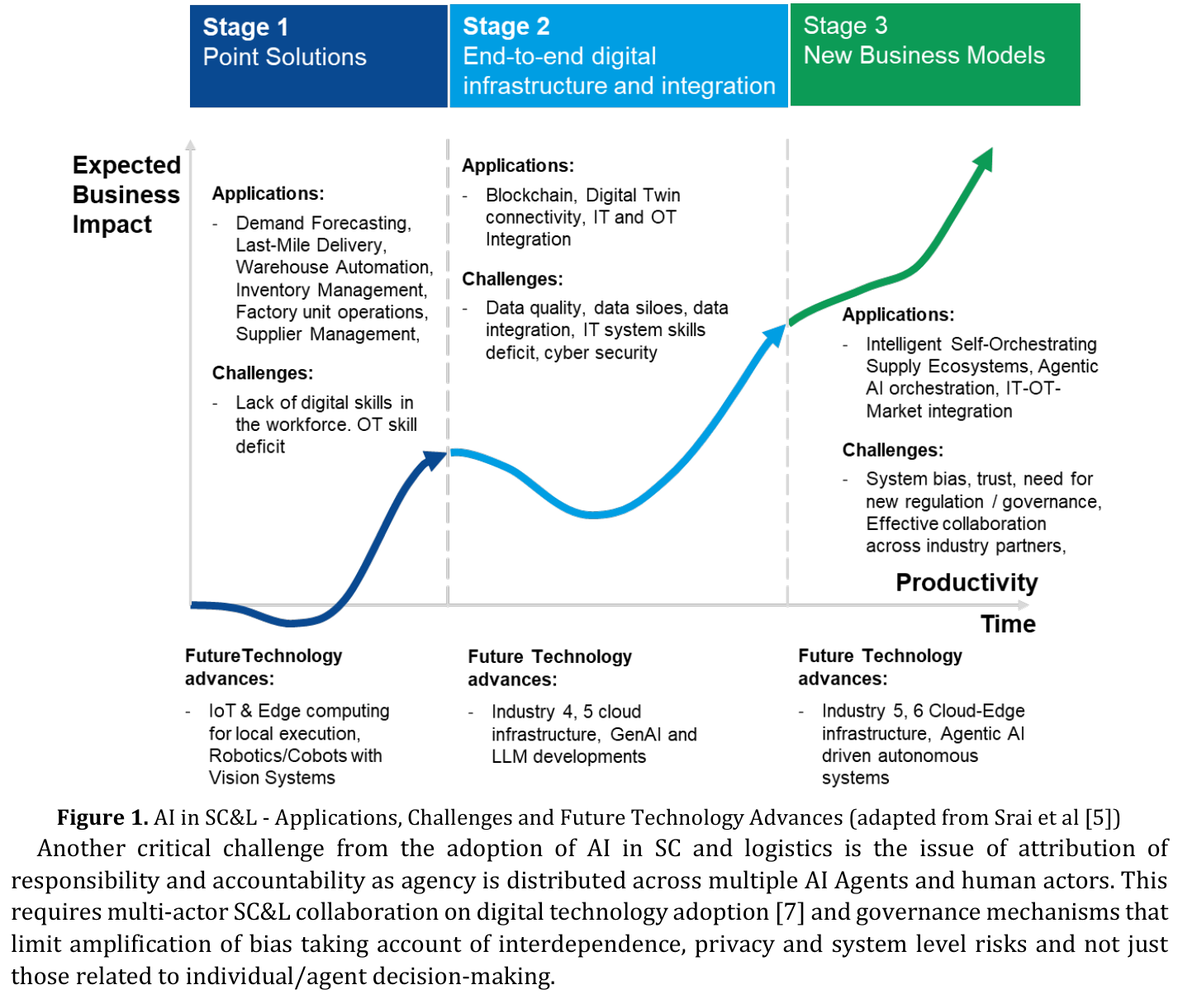
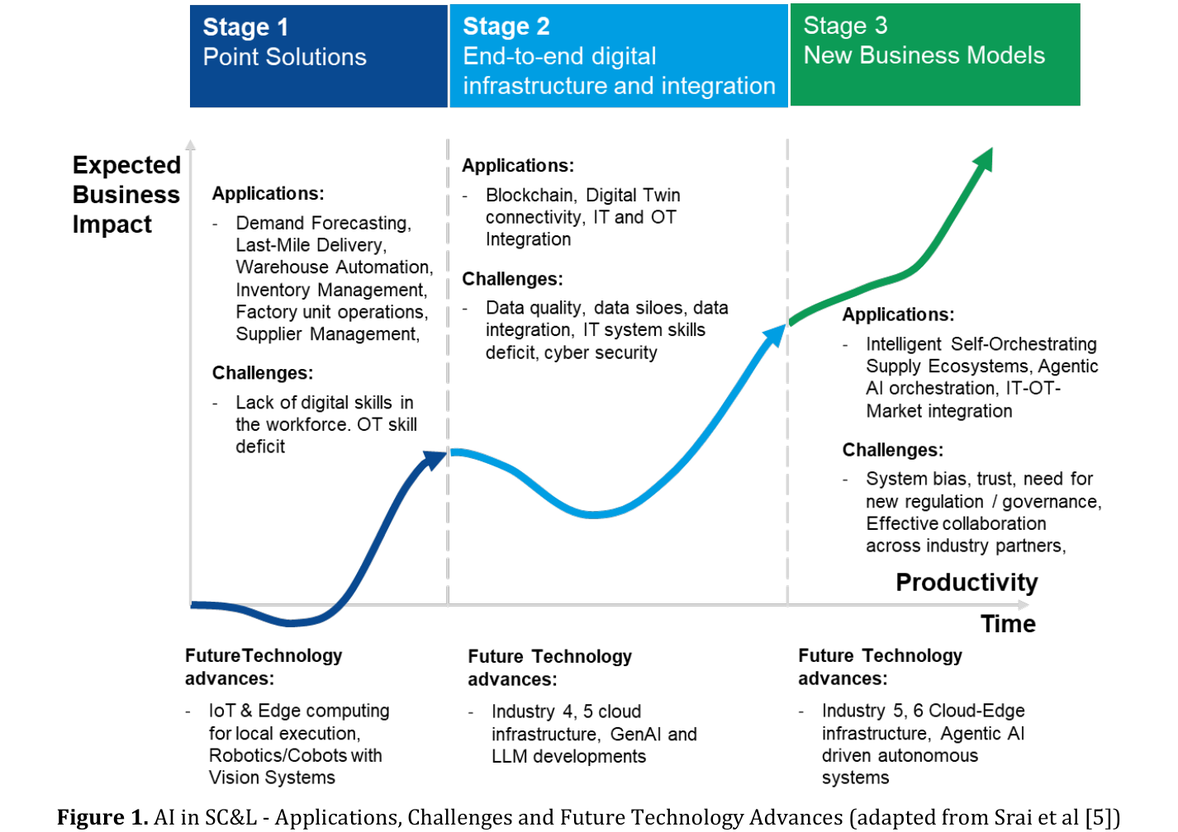
V3.34

diff --git a/site/papers/2026-roadmap-on-artificial-intelligence-and-machine-learning-for-smart-manufacturing/page-renders/full-translation.html b/site/papers/2026-roadmap-on-artificial-intelligence-and-machine-learning-for-smart-manufacturing/page-renders/full-translation.html
@@ -396,7 +396,7 @@ E-mail：LKong@fudan.edu.cn</p>
 <h2>致谢</h2>
 <p>作者谨对国家自然科学基金（52375414）与上海市科委创新专项（23ZR1404200）的支持表示衷心感谢。</p>
 <details class="references-panel" open=""><summary class="references-summary">参考文献</summary><div class="references"><p>[1] AlMahasneh R, Hollósi G, Ficzere D, Bancsics M, Lukovszki C, Varga P. Uncovering Common AI Challenges Across Industrial&nbsp;Domains in the Transition to Industry 5.0[C]//2024 20th International Conference on Network and Service Management&nbsp;(CNSM). IEEE, 2024: 1-7.&nbsp;</p><p>[2] Liang P P, Zadeh A, Morency L P. Foundations &amp; trends in multimodal machine learning: Principles, challenges, and open&nbsp;</p><p>questions[J]. ACM Computing Surveys, 2024, 56(10): 1-42.&nbsp;</p><p>[3] Guclu E, Akin E. Enhanced defect detection on steel surfaces using integrated residual refinement module with synthetic data&nbsp;augmentation[J]. Measurement, 2025, 250: 117136.&nbsp;</p><p>[4] Li Y, Zheng L, Wang Y, Dong E, Zhang S. Impedance Learning-based Adaptive Force Tracking for Robot on Unknown Terrains[J].&nbsp;IEEE Transactions on Robotics, 2025.&nbsp;</p><p>[5] Radford A, Kim J W, Hallacy C, Ramesh A, Goh G, Agarwal S,sastry G, Askell A, Mishkin P, Clark J,Krueger G, Sutskever I. Learning&nbsp;transferable visual models from natural language supervision[C]//International conference on machine learning. PmLR, 2021:&nbsp;8748-8763.&nbsp;</p><p>[6] Chang Y H, Wu F C, Lin H W. Design and implementation of esp32-based edge computing for object detection[J]. Sensors, 2025,&nbsp;25(6): 1656.&nbsp;</p><p>[7] Deng F, Huang Y, Lu S, Chen Y, Feng H, Zhang J, Yang Y, Hu J, Lam TL, Xia F. A multi-sensor data fusion system for laser welding&nbsp;process monitoring[J]. IEEE Access, 2020, 8: 147349-147357.&nbsp;</p><p>[8] Harmatos J, Maliosz M. Architecture integration of 5G networks and time-sensitive networking with edge computing for smart&nbsp;manufacturing[J]. Electronics, 2021, 10(24): 3085.&nbsp;</p><p>[9] Sochaniwsky A. A LIGHTWEIGHT CAMERA-LIDAR FUSION FRAMEWORK FOR TRAFFIC MONITORING APPLICATIONS[D]. ,&nbsp;</p><p>2024.&nbsp;</p><p>[10] Durana P, Krastev V, Buckner K. Digital twin modeling, multi-sensor fusion technology, and data mining algorithms in cloud&nbsp;and edge computing-based Smart city environments[J]. Geopolitics, History, and International Relations, 2022, 14(1): 91-106.&nbsp;</p><p>[11] Wang M, Zhang X, Chen S, Li X, Zhang Y. A bidirectional separated distillation-based cross-modal interactive fusion network&nbsp;for skeleton-based action recognition[J]. IEEE Sensors Journal, 2024.&nbsp;</p><p>[12] Guo J, Liu Q, Chen E. A deep reinforcement learning method for multimodal data fusion in action recognition[J]. IEEE Signal&nbsp;Processing Letters, 2021, 29: 120-124.&nbsp;</p><p>[13] Dani A P, Salehi I, Rotithor G, Trombetta D, Ravichandar H. Human-in-the-loop robot control for human-robot collaboration:&nbsp;Human intention estimation and safe trajectory tracking control for collaborative tasks[J]. IEEE Control Systems Magazine,&nbsp;2020, 40(6): 29-56.&nbsp;</p></div></details></section><hr>
-<section id="06-autonomous"><h1>AI赋能自主制造</h1><p>
+<section id="06-autonomous"><h1>AI赋能的自主制造</h1><p>
 <strong>
 Sungjong Kim<sup>1</sup>, 
 Chan Hee Park<sup>2</sup>, 
@@ -561,20 +561,18 @@ E-mail: ftao@buaa.edu.cn</p>
 <p>[17] Mata O, Ponce P, Perez C et al 2025 Digital twin designs with generative AI: crafting a comprehensive framework for manufacturing systems J. Intell. Manuf. 1 1-24(doi:10.1007/s10845-025-02583-8)</p>
 <p>[18] Putz B, Dietz M, Empl P et al 2021 Ethertwin: Blockchain-based secure digital twin information management Inf. Process. Manag. 58 102425(doi:10.1016/j.ipm.2020.102425)</p>
 <p>[19] Yoo S K, Sun K J and Kim S H 2024 Digital Twin Standardization: Trends and Future Prospects Electron. Telecommun. Trends 39 79-86(doi: 10.22648/ETRI.2024.J.390308)</p></div></details></section><hr>
-<section id="10-supply"><h1>智能供应链与物流</h1><p>Jagjit Singh Srai¹</p>
+<section id="10-supply"><h1>面向智能供应链与物流的AI</h1><p>Jagjit Singh Srai¹</p>
 <p>¹ 英国剑桥大学工程系</p>
 <p>E-mail: jss46@cam.ac.uk</p>
 <p><strong>现状</strong></p>
-<p>人工智能（AI）作为一套知识体系而非单一技术，已历经数十年的发展。尽管目前供应链与物流（Supply Chain &amp; Logistics, SC&amp;L）中AI技术的应用仍处于起步阶段，但其有望成为"工业6.0"转型的下一次重大变革，推动认知自动化的发展[1]。当前，需求预测、供应规划领域正经历快速发展，支撑近实时物流优化的新型物理与数字基础设施[2]不断涌现，同时促进新的商业模式[3]，实现自主运营与超个性化服务。这些早期应用与试点开发正处于更广泛的数字化供应链转型进程中，整合贯穿"端到端"供应链的离散运营。表1列出了当前智能供应链与物流中的AI应用示例。这些应用可归类为供应链特定领域的"点解决方案"，如工厂单元操作与最后一公里物流[4]，也可作为支撑AI跨企业扩展的"基础设施"，而最值得关注的或许是支持自主"运营/商业模式"[5]的多连接AI与数字应用——例如通过代理型AI（Agentic-AI）实现分布式决策。</p>
-<p><strong>当前及未来挑战</strong></p>
-<p>与数字化供应链与物流转型中部署的其他技术类似，AI具有巨大的潜在收益，技术干预可同时提升生产率和供应链对需求变化的响应能力。然而，在供应链中采用AI技术仍面临巨大挑战，包括：劳动力技能不足、对可能影响工作安全的技术之抵触、数据质量与数据整合挑战、AI模型的可解释性、潜在的系统偏差，以及高度分布式系统的治理安排。图1总结了AI在供应链中的应用、涌现的挑战及应对这些挑战的未来技术。就技能而言，世界经济论坛2025年就业报告[6]指出，到2030年，三分之一的工作岗位将涉及人机协作的增强系统，另有三分之一将实现完全自动化，与当前水平相比仅需手动操作的活动将减少50%。这将改变供需规划岗位的性质，劳动密集型入门岗位将大幅减少。</p>
-<p><strong>表1. 当前状态——供应链与物流中AI应用示例</strong></p>
+<p style="text-align: justify;">人工智能（AI）作为一套知识体系而非单一技术，已历经数十年的发展。尽管目前供应链与物流（Supply Chain &amp; Logistics, SC&amp;L）中AI技术的应用仍处于起步阶段，但随着向认知自动化的转变，其有望成为“工业6.0”转型的下一次重大变革[1]。当前，需求预测、供应规划领域正经历快速发展，支撑近实时物流优化的新型物理与数字基础设施[2]不断涌现，同时促进新的商业模式[3]，实现自主运营与超个性化服务。这些早期应用与试点开发正处于更广泛的数字化供应链转型进程中，整合贯穿“端到端”供应链的离散运营。表1列出了当前智能供应链与物流中的AI应用示例。这些应用可归类为供应链特定领域的“点解决方案”，如工厂单元操作与最后一公里物流[4]，也可作为支撑AI跨企业扩展的“基础设施”，而最值得关注的或许是支持自主“运营/商业模式”[5]的多连接AI与数字应用，例如通过 智能体式AI（Agentic-AI）实现分布式决策。</p>
+<p><strong>表1. 当前状态——供应链与物流中的AI应用示例</strong></p>
 <table>
 <thead>
 <tr>
 <th>AI应用领域</th>
 <th>部署的AI技术</th>
-<th>增强的供应链产出</th>
+<th>提升的供应链产出</th>
 </tr>
 </thead>
 <tbody>
@@ -590,7 +588,7 @@ E-mail: ftao@buaa.edu.cn</p>
 </tr>
 <tr>
 <td>仓库自动化</td>
-<td>机器人-视觉系统-机器人</td>
+<td>机器人技术-视觉系统-机器人</td>
 <td>速度、生产率、拣选准确率提升</td>
 </tr>
 <tr>
@@ -610,12 +608,14 @@ E-mail: ftao@buaa.edu.cn</p>
 </tr>
 </tbody>
 </table>
-<figure class="paper-figure"><img src="images/supply-fig1.png" alt="图1. AI在供应链与物流中的应用、挑战与未来技术进展" loading="lazy" draggable="false"><figcaption>图1. AI在供应链与物流中的应用、挑战与未来技术进展</figcaption></figure>
-<p>（改编自Srai等[5]）</p>
-<p>供应链与物流中AI应用的另一关键挑战在于，当决策代理分布在多个AI智能体与人类行为者之间时，责任归属与问责问题变得尤为突出。这需要在数字技术采用[7]上开展多方行为者协作，并建立治理机制，以遏制偏差的放大——需考虑相互依存性、隐私及系统层面风险，而非仅关注个体/智能体的决策。</p>
+<p><strong>当前及未来挑战</strong></p>
+<p>与数字化供应链与物流转型中部署的其他技术类似，AI具有巨大的潜在收益，技术干预可同时提升生产率和供应链对需求变化的响应能力。然而，在供应链中采用AI技术仍面临巨大挑战，包括：劳动力技能不足、对可能影响工作安全的技术之抵触、数据质量与数据整合挑战、AI模型的可解释性、潜在的系统偏差，以及高度分布式系统的治理安排。图1总结了AI在供应链中的应用、涌现的挑战及应对这些挑战的未来技术。就技能而言，世界经济论坛2025年就业报告[6]指出，到2030年，三分之一的工作岗位将涉及人机协作的增强系统，另有三分之一将实现完全自动化，与当前水平相比仅需手动操作的活动将减少50%。这将改变供需规划岗位的性质，劳动密集型入门岗位将大幅减少。</p>
+<figure class="paper-figure"><img src="images/supply-fig1.png" alt="图1. AI在供应链与物流中的应用、挑战与未来技术进展（改编自Srai等[5]）" loading="lazy" draggable="false"><figcaption>图1. AI在供应链与物流中的应用、挑战与未来技术进展（改编自Srai等[5]）</figcaption></figure>
+<p>供应链与物流中AI应用的另一关键挑战在于，当决策智能体分布在多个AI智能体与人类行为者之间时，责任归属与问责问题变得尤为突出。这需要在数字技术采用[7]上开展多方行为者协作，并建立治理机制，以遏制偏差的放大，需考虑相互依存性、隐私及系统层面风险，而非仅关注个体/智能体的决策。</p>
 <p><strong>应对挑战的科技进展</strong></p>
-<p>对于运筹管理[8]和运筹学[9]供应链与物流领域的研究者而言，AI既带来了许多研究挑战，也提供了塑造其未来发展的机遇。随着企业超越单一功能特定AI投资，规模化挑战将需要重大的基础设施开发，运营技术（OT）与信息技术（IT）专业人员需在数据整合活动中协作。主要挑战在于：组织如何跨企业规模化AI应用，以及与分布式自动化决策相关的问责、数据管理与隐私问题。为应对后者，需要新的监管框架与治理模式，而供应链与物流跨越多个司法管辖区的特性将使这一任务更为复杂。被标榜为工业5的技术发展将带来更多的人机交互，以进一步提升生产率，同时解决材料与能源使用效率问题，以应对范围三净零排放可持续性挑战。将支撑智能自编排供应生态系统的工业6技术[1]，包括由IT-OT-市场平台数据整合所支持的代理型AI编排，以及减少云数据传输与相关网络风险的本地边缘计算。</p>
-<p><b>结语</b></p><p><strong><br></strong></p><p><b>致谢</b></p><p><b><br></b></p>
+<p>对于运筹管理[8]和运筹学[9]供应链与物流领域的研究者而言，AI既带来了许多研究挑战，也提供了塑造其未来发展的机遇。随着企业超越单一功能特定AI投资，规模化挑战将需要重大的基础设施开发，运营技术（OT）与信息技术（IT）专业人员需在数据整合活动中协作。主要挑战在于：组织如何跨企业规模化AI应用，以及与分布式自动化决策相关的问责、数据管理与隐私问题。为应对后者，需要新的监管框架与治理模式，而供应链与物流跨越多个司法管辖区的特性将使这一任务更为复杂。被标榜为工业5.0的技术发展将带来更多的人机交互，以进一步提升生产率，同时解决材料与能源使用效率问题，以应对scope 3净零排放可持续性挑战。将支撑智能自编排供应生态系统的工业6.0技术[1]，包括由IT-OT-市场平台数据整合所支持的智能体<span style="text-align: justify; font-size: 1rem;">式</span>AI编排，以及减少云数据传输与相关网络风险的本地边缘计算。</p>
+<p><b>结语</b></p><p>尽管人工智能（AI）技术在数据、基础设施和治理方面面临重大挑战，但它已通过改进需求预测、近实时供应重新路由、工厂单元操作生产率提升以及供应商采购灵活性，推动了供应链和物流（SC&amp;L）绩效的提升。未来的发展将开始将这些分散的系统连接起来，使供应链和物流能够自主运行。这些发展将使手动、增强和自动化任务之间的平衡发生重大转变。意想不到的后果，如供应网络内部权力的变化、系统性风险暴露、模型错误导致的幻觉，以及依赖“黑箱”分析可能导致的去技能化，都可能导致信任缺失，阻碍实施。</p><p><b>致谢</b></p><p>本研究的资金支持来源于数字供应链转型研究项目；UKRI 
+Resilience in Agrifood Systems: Supply Chain Configuration Analytics Lab (RASCAL) ，BB/Z516703/1；Made Smarter Innovation Digital Medicines Manufacturing Research Centre，DM2/Ref EP/V062077/1。</p>
 <details class="references-panel" open=""><summary class="references-summary">参考文献</summary><div class="references"><p>[1] Samuels, A., 2025. Examining the integration of artificial intelligence in supply chain management from Industry 4.0 to 6.0: a systematic literature review. Frontiers in artificial intelligence, 7, p.1477044.</p>
 <p>[2] Joglekar, N., Anderson Jr, E.G., Lee, K., Parker, G., Settanni, E. and Srai, J.S., 2022. Configuration of digital and physical infrastructure platforms: Private and public perspectives. Production and Operations Management, 31(12), pp.4515- 4528.</p>
 <p>[3] Srai, J. S., G. Parker, N. Joglekar, M. Bärring, J. Boehm, E. Enselme, M. Basso, F. Betti and B. Schönfuß, 2022. ‘Unlocking Business Model Innovation through Advanced Manufacturing’. White Paper, World Economic Forum https://www.weforum.org/whitepapers/unlocking-business-model-innovation-through-advanced-manufacturing</p>

diff --git a/site/papers/2026-roadmap-on-artificial-intelligence-and-machine-learning-for-smart-manufacturing/page-renders/sections/10-supply.html b/site/papers/2026-roadmap-on-artificial-intelligence-and-machine-learning-for-smart-manufacturing/page-renders/sections/10-supply.html
@@ -4,7 +4,7 @@
     <meta charset="UTF-8">
     <meta name="viewport" content="width=device-width, initial-scale=1.0">
     <link rel="icon" href="../../../../assets/favicon.svg" type="image/svg+xml">
-    <title>智能供应链与物流 · 人工智能与机器学习智能制造路线图 2026</title>
+    <title>面向智能供应链与物流的AI · 人工智能与机器学习智能制造路线图 2026</title>
     <link rel="preconnect" href="https://fonts.googleapis.com">
     <link rel="preconnect" href="https://fonts.gstatic.com" crossorigin>
     <link rel="stylesheet" href="../css/style.css">
@@ -75,25 +75,23 @@
             <span>返回文献库</span>
         </a></div>
         <div class="content-pane article">
-                                                                                <header class="chapter-header">
+                                                                                                                                                                                                                                                                                                                                                                                                                                        <header class="chapter-header">
             <div class="article-meta">第10章</div>
-            <h1 class="chapter-title-zh">智能供应链与物流</h1>
+            <h1 class="chapter-title-zh">面向智能供应链与物流的AI</h1>
             <p class="chapter-title-en">AI for Smart Supply Chain and Logistics</p>
         </header>
         <p>Jagjit Singh Srai¹</p>
 <p>¹ 英国剑桥大学工程系</p>
 <p>E-mail: jss46@cam.ac.uk</p>
 <p><strong>现状</strong></p>
-<p>人工智能（AI）作为一套知识体系而非单一技术，已历经数十年的发展。尽管目前供应链与物流（Supply Chain &amp; Logistics, SC&amp;L）中AI技术的应用仍处于起步阶段，但其有望成为"工业6.0"转型的下一次重大变革，推动认知自动化的发展[1]。当前，需求预测、供应规划领域正经历快速发展，支撑近实时物流优化的新型物理与数字基础设施[2]不断涌现，同时促进新的商业模式[3]，实现自主运营与超个性化服务。这些早期应用与试点开发正处于更广泛的数字化供应链转型进程中，整合贯穿"端到端"供应链的离散运营。表1列出了当前智能供应链与物流中的AI应用示例。这些应用可归类为供应链特定领域的"点解决方案"，如工厂单元操作与最后一公里物流[4]，也可作为支撑AI跨企业扩展的"基础设施"，而最值得关注的或许是支持自主"运营/商业模式"[5]的多连接AI与数字应用——例如通过代理型AI（Agentic-AI）实现分布式决策。</p>
-<p><strong>当前及未来挑战</strong></p>
-<p>与数字化供应链与物流转型中部署的其他技术类似，AI具有巨大的潜在收益，技术干预可同时提升生产率和供应链对需求变化的响应能力。然而，在供应链中采用AI技术仍面临巨大挑战，包括：劳动力技能不足、对可能影响工作安全的技术之抵触、数据质量与数据整合挑战、AI模型的可解释性、潜在的系统偏差，以及高度分布式系统的治理安排。图1总结了AI在供应链中的应用、涌现的挑战及应对这些挑战的未来技术。就技能而言，世界经济论坛2025年就业报告[6]指出，到2030年，三分之一的工作岗位将涉及人机协作的增强系统，另有三分之一将实现完全自动化，与当前水平相比仅需手动操作的活动将减少50%。这将改变供需规划岗位的性质，劳动密集型入门岗位将大幅减少。</p>
-<p><strong>表1. 当前状态——供应链与物流中AI应用示例</strong></p>
+<p style="text-align: justify;">人工智能（AI）作为一套知识体系而非单一技术，已历经数十年的发展。尽管目前供应链与物流（Supply Chain &amp; Logistics, SC&amp;L）中AI技术的应用仍处于起步阶段，但随着向认知自动化的转变，其有望成为“工业6.0”转型的下一次重大变革[1]。当前，需求预测、供应规划领域正经历快速发展，支撑近实时物流优化的新型物理与数字基础设施[2]不断涌现，同时促进新的商业模式[3]，实现自主运营与超个性化服务。这些早期应用与试点开发正处于更广泛的数字化供应链转型进程中，整合贯穿“端到端”供应链的离散运营。表1列出了当前智能供应链与物流中的AI应用示例。这些应用可归类为供应链特定领域的“点解决方案”，如工厂单元操作与最后一公里物流[4]，也可作为支撑AI跨企业扩展的“基础设施”，而最值得关注的或许是支持自主“运营/商业模式”[5]的多连接AI与数字应用，例如通过 智能体式AI（Agentic-AI）实现分布式决策。</p>
+<p><strong>表1. 当前状态——供应链与物流中的AI应用示例</strong></p>
 <table>
 <thead>
 <tr>
 <th>AI应用领域</th>
 <th>部署的AI技术</th>
-<th>增强的供应链产出</th>
+<th>提升的供应链产出</th>
 </tr>
 </thead>
 <tbody>
@@ -109,7 +107,7 @@
 </tr>
 <tr>
 <td>仓库自动化</td>
-<td>机器人-视觉系统-机器人</td>
+<td>机器人技术-视觉系统-机器人</td>
 <td>速度、生产率、拣选准确率提升</td>
 </tr>
 <tr>
@@ -129,12 +127,14 @@
 </tr>
 </tbody>
 </table>
-<figure class="paper-figure"><img src="../images/supply-fig1.png" alt="图1. AI在供应链与物流中的应用、挑战与未来技术进展" loading="lazy" draggable="false"><figcaption>图1. AI在供应链与物流中的应用、挑战与未来技术进展</figcaption></figure>
-<p>（改编自Srai等[5]）</p>
-<p>供应链与物流中AI应用的另一关键挑战在于，当决策代理分布在多个AI智能体与人类行为者之间时，责任归属与问责问题变得尤为突出。这需要在数字技术采用[7]上开展多方行为者协作，并建立治理机制，以遏制偏差的放大——需考虑相互依存性、隐私及系统层面风险，而非仅关注个体/智能体的决策。</p>
+<p><strong>当前及未来挑战</strong></p>
+<p>与数字化供应链与物流转型中部署的其他技术类似，AI具有巨大的潜在收益，技术干预可同时提升生产率和供应链对需求变化的响应能力。然而，在供应链中采用AI技术仍面临巨大挑战，包括：劳动力技能不足、对可能影响工作安全的技术之抵触、数据质量与数据整合挑战、AI模型的可解释性、潜在的系统偏差，以及高度分布式系统的治理安排。图1总结了AI在供应链中的应用、涌现的挑战及应对这些挑战的未来技术。就技能而言，世界经济论坛2025年就业报告[6]指出，到2030年，三分之一的工作岗位将涉及人机协作的增强系统，另有三分之一将实现完全自动化，与当前水平相比仅需手动操作的活动将减少50%。这将改变供需规划岗位的性质，劳动密集型入门岗位将大幅减少。</p>
+<figure class="paper-figure"><img src="../images/supply-fig1.png" alt="图1. AI在供应链与物流中的应用、挑战与未来技术进展（改编自Srai等[5]）" loading="lazy" draggable="false"><figcaption>图1. AI在供应链与物流中的应用、挑战与未来技术进展（改编自Srai等[5]）</figcaption></figure>
+<p>供应链与物流中AI应用的另一关键挑战在于，当决策智能体分布在多个AI智能体与人类行为者之间时，责任归属与问责问题变得尤为突出。这需要在数字技术采用[7]上开展多方行为者协作，并建立治理机制，以遏制偏差的放大，需考虑相互依存性、隐私及系统层面风险，而非仅关注个体/智能体的决策。</p>
 <p><strong>应对挑战的科技进展</strong></p>
-<p>对于运筹管理[8]和运筹学[9]供应链与物流领域的研究者而言，AI既带来了许多研究挑战，也提供了塑造其未来发展的机遇。随着企业超越单一功能特定AI投资，规模化挑战将需要重大的基础设施开发，运营技术（OT）与信息技术（IT）专业人员需在数据整合活动中协作。主要挑战在于：组织如何跨企业规模化AI应用，以及与分布式自动化决策相关的问责、数据管理与隐私问题。为应对后者，需要新的监管框架与治理模式，而供应链与物流跨越多个司法管辖区的特性将使这一任务更为复杂。被标榜为工业5的技术发展将带来更多的人机交互，以进一步提升生产率，同时解决材料与能源使用效率问题，以应对范围三净零排放可持续性挑战。将支撑智能自编排供应生态系统的工业6技术[1]，包括由IT-OT-市场平台数据整合所支持的代理型AI编排，以及减少云数据传输与相关网络风险的本地边缘计算。</p>
-<p><b>结语</b></p><p><strong><br></strong></p><p><b>致谢</b></p><p><b><br></b></p>
+<p>对于运筹管理[8]和运筹学[9]供应链与物流领域的研究者而言，AI既带来了许多研究挑战，也提供了塑造其未来发展的机遇。随着企业超越单一功能特定AI投资，规模化挑战将需要重大的基础设施开发，运营技术（OT）与信息技术（IT）专业人员需在数据整合活动中协作。主要挑战在于：组织如何跨企业规模化AI应用，以及与分布式自动化决策相关的问责、数据管理与隐私问题。为应对后者，需要新的监管框架与治理模式，而供应链与物流跨越多个司法管辖区的特性将使这一任务更为复杂。被标榜为工业5.0的技术发展将带来更多的人机交互，以进一步提升生产率，同时解决材料与能源使用效率问题，以应对scope 3净零排放可持续性挑战。将支撑智能自编排供应生态系统的工业6.0技术[1]，包括由IT-OT-市场平台数据整合所支持的智能体<span style="text-align: justify; font-size: 1rem;">式</span>AI编排，以及减少云数据传输与相关网络风险的本地边缘计算。</p>
+<p><b>结语</b></p><p>尽管人工智能（AI）技术在数据、基础设施和治理方面面临重大挑战，但它已通过改进需求预测、近实时供应重新路由、工厂单元操作生产率提升以及供应商采购灵活性，推动了供应链和物流（SC&amp;L）绩效的提升。未来的发展将开始将这些分散的系统连接起来，使供应链和物流能够自主运行。这些发展将使手动、增强和自动化任务之间的平衡发生重大转变。意想不到的后果，如供应网络内部权力的变化、系统性风险暴露、模型错误导致的幻觉，以及依赖“黑箱”分析可能导致的去技能化，都可能导致信任缺失，阻碍实施。</p><p><b>致谢</b></p><p>本研究的资金支持来源于数字供应链转型研究项目；UKRI 
+Resilience in Agrifood Systems: Supply Chain Configuration Analytics Lab (RASCAL) ，BB/Z516703/1；Made Smarter Innovation Digital Medicines Manufacturing Research Centre，DM2/Ref EP/V062077/1。</p>
 <details class="references-panel" open=""><summary class="references-summary">参考文献</summary><div class="references"><p>[1] Samuels, A., 2025. Examining the integration of artificial intelligence in supply chain management from Industry 4.0 to 6.0: a systematic literature review. Frontiers in artificial intelligence, 7, p.1477044.</p>
 <p>[2] Joglekar, N., Anderson Jr, E.G., Lee, K., Parker, G., Settanni, E. and Srai, J.S., 2022. Configuration of digital and physical infrastructure platforms: Private and public perspectives. Production and Operations Management, 31(12), pp.4515- 4528.</p>
 <p>[3] Srai, J. S., G. Parker, N. Joglekar, M. Bärring, J. Boehm, E. Enselme, M. Basso, F. Betti and B. Schönfuß, 2022. ‘Unlocking Business Model Innovation through Advanced Manufacturing’. White Paper, World Economic Forum https://www.weforum.org/whitepapers/unlocking-business-model-innovation-through-advanced-manufacturing</p>

diff --git a/site/papers/2026-roadmap-on-artificial-intelligence-and-machine-learning-for-smart-manufacturing/page-renders/sections/06-autonomous.html b/site/papers/2026-roadmap-on-artificial-intelligence-and-machine-learning-for-smart-manufacturing/page-renders/sections/06-autonomous.html
@@ -4,7 +4,7 @@
     <meta charset="UTF-8">
     <meta name="viewport" content="width=device-width, initial-scale=1.0">
     <link rel="icon" href="../../../../assets/favicon.svg" type="image/svg+xml">
-    <title>AI赋能自主制造 · 人工智能与机器学习智能制造路线图 2026</title>
+    <title>AI赋能的自主制造 · 人工智能与机器学习智能制造路线图 2026</title>
     <link rel="preconnect" href="https://fonts.googleapis.com">
     <link rel="preconnect" href="https://fonts.gstatic.com" crossorigin>
     <link rel="stylesheet" href="../css/style.css">
@@ -75,9 +75,9 @@
             <span>返回文献库</span>
         </a></div>
         <div class="content-pane article">
-                                                                                                                                                                                                                                                                                                                                                                                                                                                                                                <header class="chapter-header">
+                                                                                                                                                                                                                                                                                                                                                                                                                                                                                                        <header class="chapter-header">
             <div class="article-meta">第6章</div>
-            <h1 class="chapter-title-zh">AI赋能自主制造</h1>
+            <h1 class="chapter-title-zh">AI赋能的自主制造</h1>
             <p class="chapter-title-en">AI-Enabled Autonomous Manufacturing</p>
         </header>
         <p>
